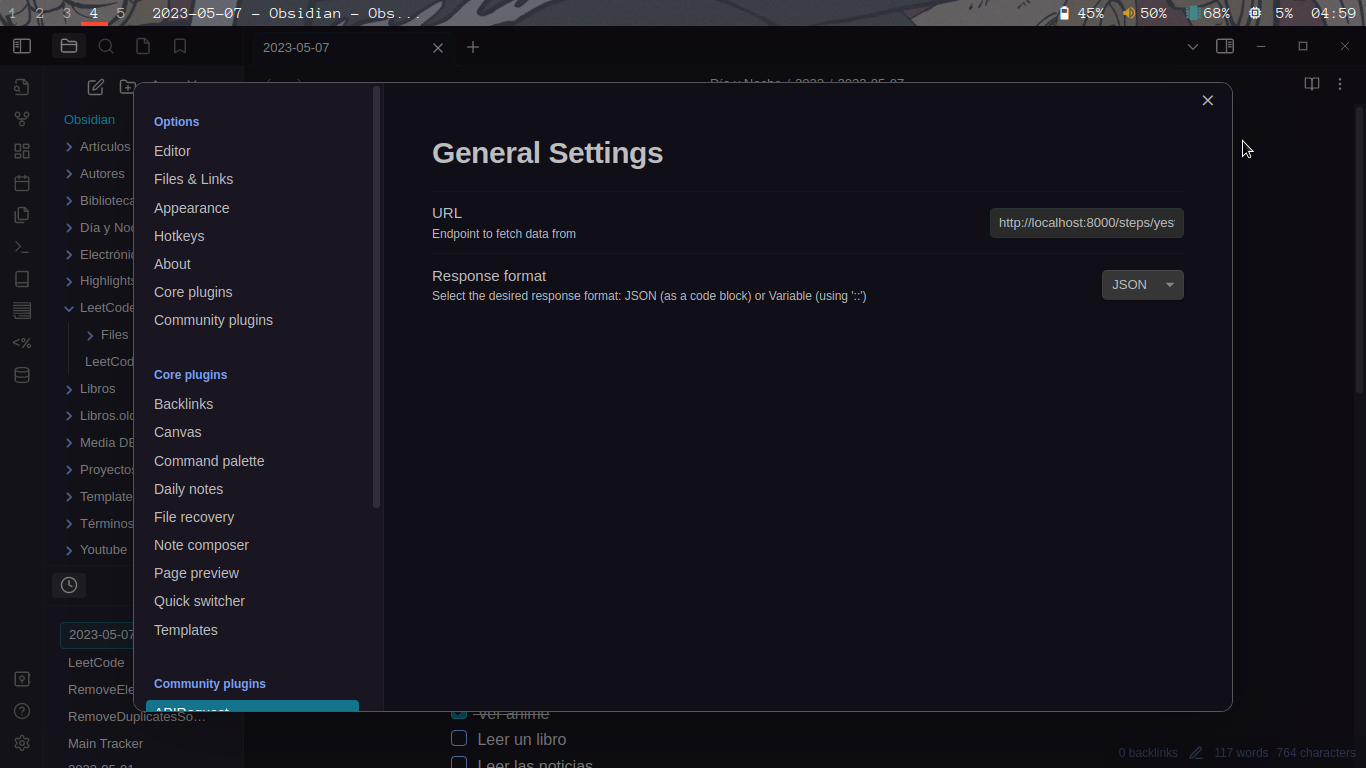
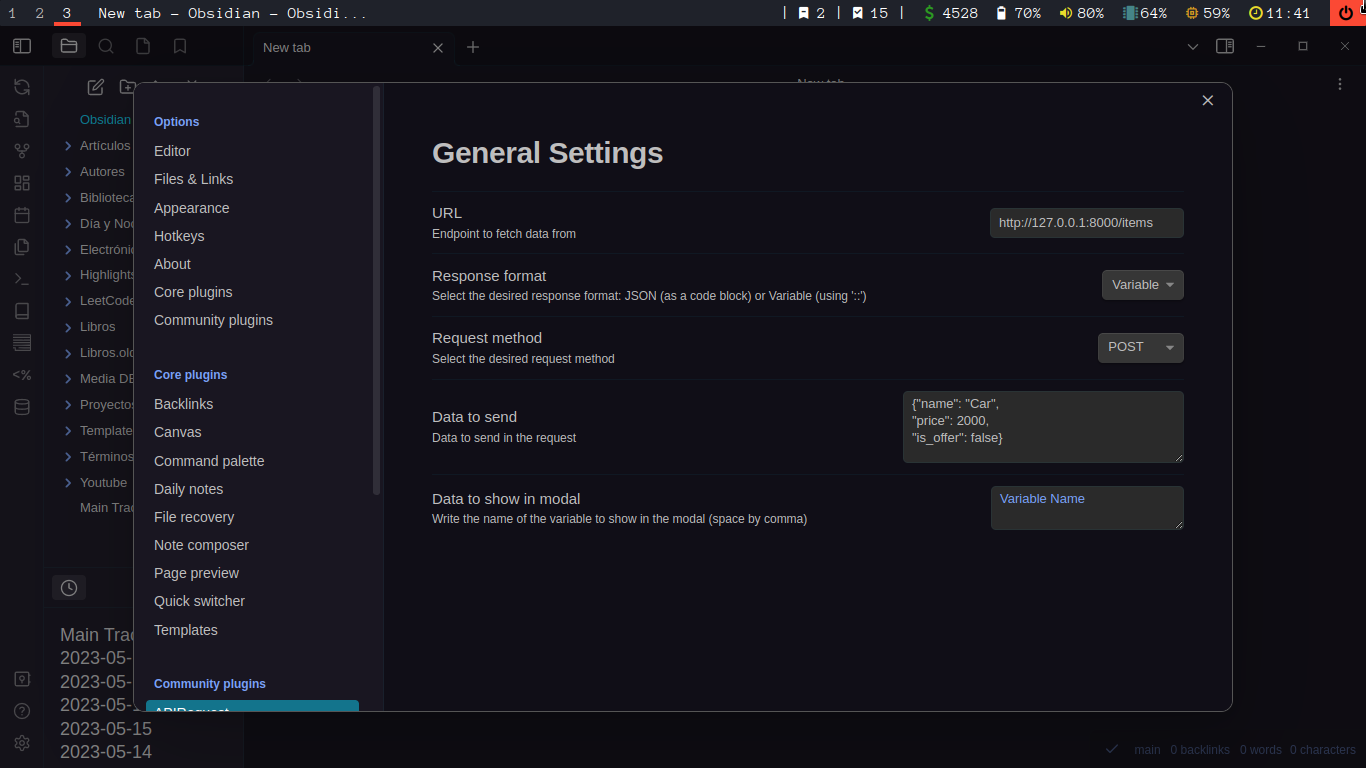
New features (added methods & custom output)

diff --git a/main.ts b/main.ts
@@ -37,7 +37,7 @@ export default class MainAPIR extends Plugin {
 			editorCallback: (editor: Editor, view: MarkdownView) => {
 			  fetch(this.settings.URL, {
 			    method: this.settings.MethodRequest,
-			    body: JSON.stringify(this.settings.DataRequest),
+			    body: this.settings.DataRequest,
 			  })
 			    .then(response => {
 			      if (!response.ok) {
@@ -70,7 +70,6 @@ export default class MainAPIR extends Plugin {
 					})
 			    .catch(error => {
 			      console.error(error);
-			      contentEl.createEl('b', { text: "Error: " + error.message });
 			    });
 			}
 		});

diff --git a/README.md b/README.md
@@ -1,6 +1,6 @@
-# APIR (Api Request)
+# APIR - Api Request
 
-APIR is an Obsidian plugin that allows you to make GET requests to APIs and receive responses in the format of a JSON block or an Obsidian variable. We plan to add more request types in the future.
+Obsidian plugin that allows you to make requests to APIs and receive responses in the format of a JSON block or an Obsidian variable. 
 
 ![conf_img](config_img.png)
 
@@ -23,10 +23,13 @@ The plugin has a few settings that you can configure:
 
 - **URL**: The URL to send the request to.
 - **Output format**: Choose between JSON block or Obsidian variable.
+- **Request Method**: Choose between GET, POST, PUT & DELETE.
+- **Request Data**: The data to send with the request. Data should by in JSON format.
+- **Response Data**: The response data to display. If empty all data will be display.
 
 ## To-do
 
-- [x] Add more request types (POST, PUT, DELETE, etc.)
+- [x] Add more request types (POST, PUT, DELETE)
 - [ ] Add support for authentication
 - [x] Add customizability for modal output (e.g. show only specific fields, change color scheme, add custom CSS)
 - [x] Add customizability for variable output (e.g. show only specific fields, change variable name)
